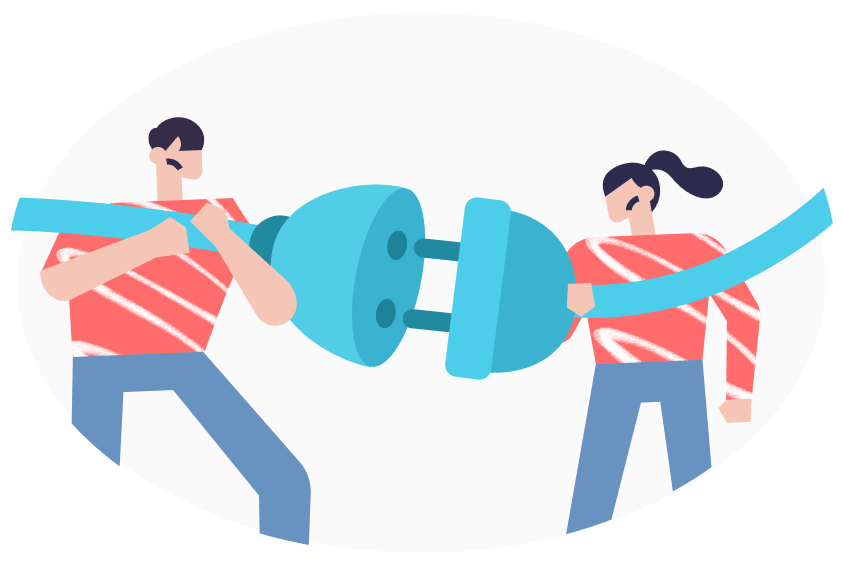
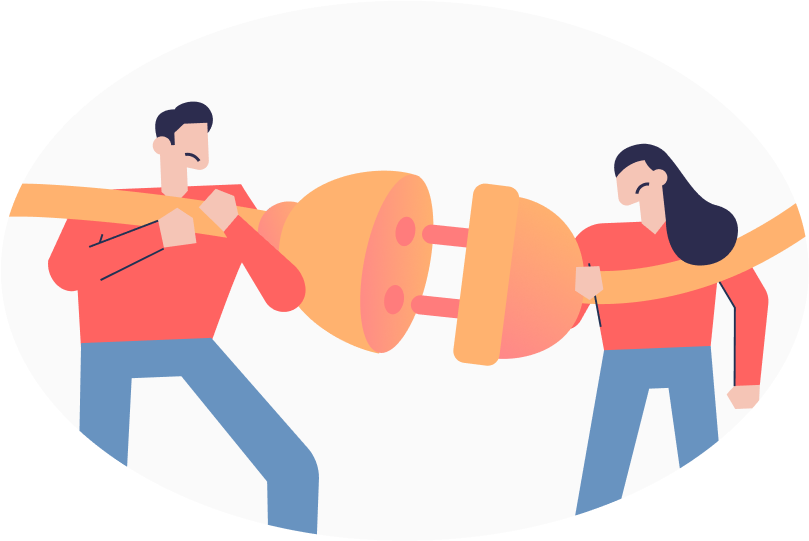
Assets: protocol rebranding

Changed region(s): [[0.0, 0.1774, 1.0, 1.0]]

diff --git a/src/components/Activity/ActivityList.js b/src/components/Activity/ActivityList.js
@@ -12,7 +12,7 @@ import { ACTIVITY_STATUS_PENDING } from './activity-statuses'
 import { useActivity } from '../../providers/ActivityProvider'
 import ActivityItem from './ActivityItem'
 
-import activityNoResults from './assets/activity-no-results.png'
+import activityNoResults from './assets/activity-no-results.svg'
 
 // 8GU for top bar, 4GU for activity heading,
 // 11GU for HelpScout beacon (3GU top/bottom padding, 5GU beacon)
@@ -126,12 +126,7 @@ function ActivityList() {
               height: ${28.5 * GU}px;
             `}
           >
-            <img
-              src={activityNoResults}
-              alt="No results"
-              height="125px"
-              width="125px"
-            />
+            <img src={activityNoResults} alt="No results" />
             <span
               css={`
                 margin-top: ${2 * GU}px;

diff --git a/src/components/Disputes/DisputeDetail.js b/src/components/Disputes/DisputeDetail.js
@@ -19,7 +19,7 @@ import { DisputeNotFound } from '../../errors'
 import { toMs } from '../../utils/date-utils'
 import { toUtf8String } from '../../lib/web3-utils'
 
-import timelineErrorSvg from '../../assets/timelineError.svg'
+import timelineErrorSvg from '../../assets/noResultsSmall.svg'
 
 const DisputeDetail = React.memo(function DisputeDetail({ match }) {
   const history = useHistory()

diff --git a/src/components/Errors/GlobalErrorScreen.js b/src/components/Errors/GlobalErrorScreen.js
@@ -1,7 +1,7 @@
 import React from 'react'
 import PropTypes from 'prop-types'
 import { Card, GU, useTheme, useViewport } from '@aragon/ui'
-import globalError from '../../assets/globalError.svg'
+import globalError from '../../assets/noResultsSmall.svg'
 import backgroundError from '../../assets/backgroundError.svg'
 import logo from '../../assets/logo.svg'
 

diff --git a/src/components/Errors/ErrorLoading.js b/src/components/Errors/ErrorLoading.js
@@ -1,7 +1,7 @@
 import React from 'react'
 import { GU, Info, useTheme } from '@aragon/ui'
 
-import errorLoadingSvg from '../../assets/errorLoading.svg'
+import errorLoadingSvg from '../../assets/noResults.svg'
 import MessageCard from '../MessageCard'
 
 function ErrorLoading({ subject, errors, border }) {

diff --git a/src/components/Disputes/ErrorLoadingEvidence.js b/src/components/Disputes/ErrorLoadingEvidence.js
@@ -1,7 +1,7 @@
 import React from 'react'
 import { GU, textStyle, useTheme } from '@aragon/ui'
 
-import errorLoadingSvg from '../../assets/errorLoading.svg'
+import errorLoadingSvg from '../../assets/noResults.svg'
 
 export default function ErrorLoadingEvidence() {
   const theme = useTheme()

diff --git a/src/components/MessageCard.js b/src/components/MessageCard.js
@@ -30,9 +30,6 @@ export default function MessageCard({
           alt=""
           css={`
             display: block;
-            width: 100%;
-            max-width: ${(isCompactMode ? 12 : 30) * GU}px;
-            height: auto;
             margin: ${4 * GU}px 0;
           `}
         />

diff --git a/src/components/Disputes/NoEvidence.js b/src/components/Disputes/NoEvidence.js
@@ -1,7 +1,7 @@
 import React from 'react'
 
 import MessageCard from '../MessageCard'
-import noEvidenceSvg from '../../assets/noEvidence.svg'
+import noEvidenceSvg from '../../assets/noDraft.svg'
 
 function NoEvidence() {
   const title = ' The evidence is being presented'
